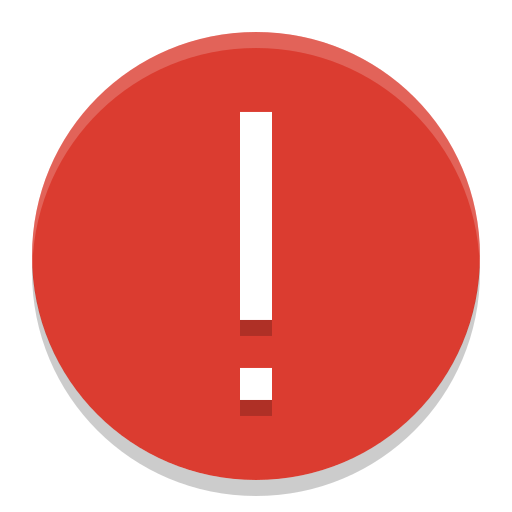
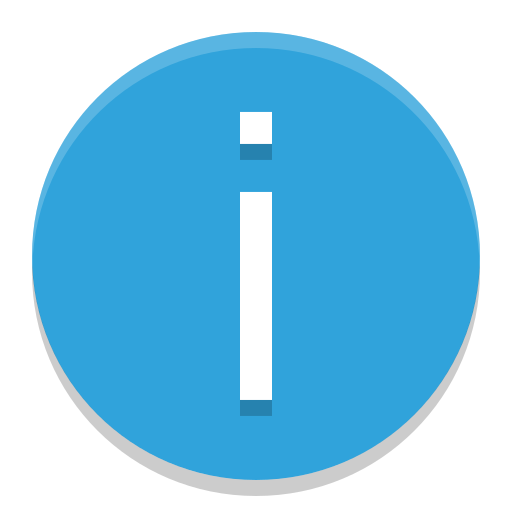
commit ：)

diff --git a/files/script.js b/files/script.js
@@ -53,7 +53,7 @@ let dialogTitle = document.getElementById("dialog-title");
 let dialogMessage = document.getElementById("dialog-message");
 
 const dialog = {
-    prompt: function(message,type,canClose,title) {
+    prompt: function(message,type,canClose,title,icon) {
         //ダイアログボックスの表示
         document.getElementById("dialog").style.display = "block";
         document.getElementById("dialog").classList.add('dialogAnimation');
@@ -61,6 +61,9 @@ const dialog = {
         //メッセージの作成
         dialogTitle.textContent = title;
         dialogMessage.textContent = message;
+
+        //アイコンの作成
+        document.querySelector("#dialog-icon").src = "../files/alert" + icon + ".png";
 
         //✕で閉じることができるか
         if(canClose === false) {
@@ -74,7 +77,7 @@ const dialog = {
         );
     },
 
-    alert: function(message,title) {
+    alert: function(message,title,icon) {
         //ダイアログボックスの表示
         document.getElementById("dialog").style.display = "block";
         document.getElementById("dialog").classList.add('dialogAnimation');
@@ -82,6 +85,9 @@ const dialog = {
         //メッセージの作成
         dialogTitle.textContent = title;
         dialogMessage.textContent = message;
+
+        //アイコンの作成
+        document.querySelector("#dialog-icon").src = "../files/alert" + icon + ".png";
 
         //HTMLの挿入
         dialogContent.insertAdjacentHTML(
@@ -97,11 +103,11 @@ function dialogButton(type,message) {
         if(message === "name") {
             writeCookie("name",dialogTextBox);
             resetDialog();
-            dialog.prompt(viewCookie("name") + "さんですね、ようこそ、最後に天気を取得するためにあなたの地域を教えてくれませんか？","weather",false,"天気情報の設定");
+            dialog.prompt(viewCookie("name") + "さんですね、ようこそ、最後に天気を取得するためにあなたの地域を教えてくれませんか？","weather",false,"天気情報の設定","1");
         } else if(message === "weather") {
             writeCookie("weather",dialogTextBox);
             resetDialog();
-            dialog.alert("質問の回答ありがとうございます!皆様に機能の便利さを知ってもらうために努力をしているので何卒宜しくお願い致します！","設定の完了");
+            dialog.alert("質問の回答ありがとうございます!皆様に機能の便利さを知ってもらうために努力をしているので何卒宜しくお願い致します！","設定の完了","1");
             writeCookie("visited",true);
             startCode();
         };
@@ -136,7 +142,7 @@ try {
     viewCookie("visited");
     startCode();
 } catch(e) {
-    dialog.prompt("こんにちは!突然ですがこのサイトを使用するにはあなたに関しての情報がいくつかいります！最初に名前を教えてください。","name",false,"ようこそ");
+    dialog.prompt("こんにちは!突然ですがこのサイトを使用するにはあなたに関しての情報がいくつかいります！最初に名前を教えてください。","name",false,"ようこそ","1");
 };
 
 //ハンバーガーメニューのボタンが押されたとき
@@ -164,7 +170,7 @@ function startCode() {
 function weather() {
     //設定など
     const xhr = new XMLHttpRequest();
-    xhr.open("GET", "/program/weather/" + viewCookie("weather"), true);
+    xhr.open("GET", "../program/weather/" + viewCookie("weather"), true);
 
     //詳細な情報
     xhr.onload = (e) => {

diff --git a/index.js b/index.js
@@ -58,7 +58,7 @@ const pages = {
         `div.widget {
             width: 290px;
             height: 250px;
-            margin: 15px 0 15px 0;
+            margin: 10px;
             border-radius: 10px;
             background-color: #ffffff00;
             box-shadow: 0 10px 10px rgba(0, 0, 0, 0.2);
@@ -72,7 +72,7 @@ const pages = {
 
         `h1 {color: blue;}`,
 
-        `dialog.alert("このページは開発中です...","警告")`
+        `dialog.alert("このページは開発中です...","警告","1");`
     ]
 };
 

diff --git a/files/style.css b/files/style.css
@@ -78,10 +78,10 @@ div.dialog-bottom {
     border-bottom: 2px solid #7c7c7c;
 }
 
-div.dialog-bottom img {
+img#dialog-icon {
     width: 22px;
     height: 22px;
-    margin: 0 7px 0 7px;
+    margin: 0 3px 0 0px;
 }
 
 p#dialog-title {

diff --git a/root/news.js b/root/news.js
@@ -4,7 +4,7 @@ const root = express.Router();
 const axios = require("axios");
 
 root.get("/", (req,res) => {
-
+    res.send("a")
 });
 
 module.exports = root;
